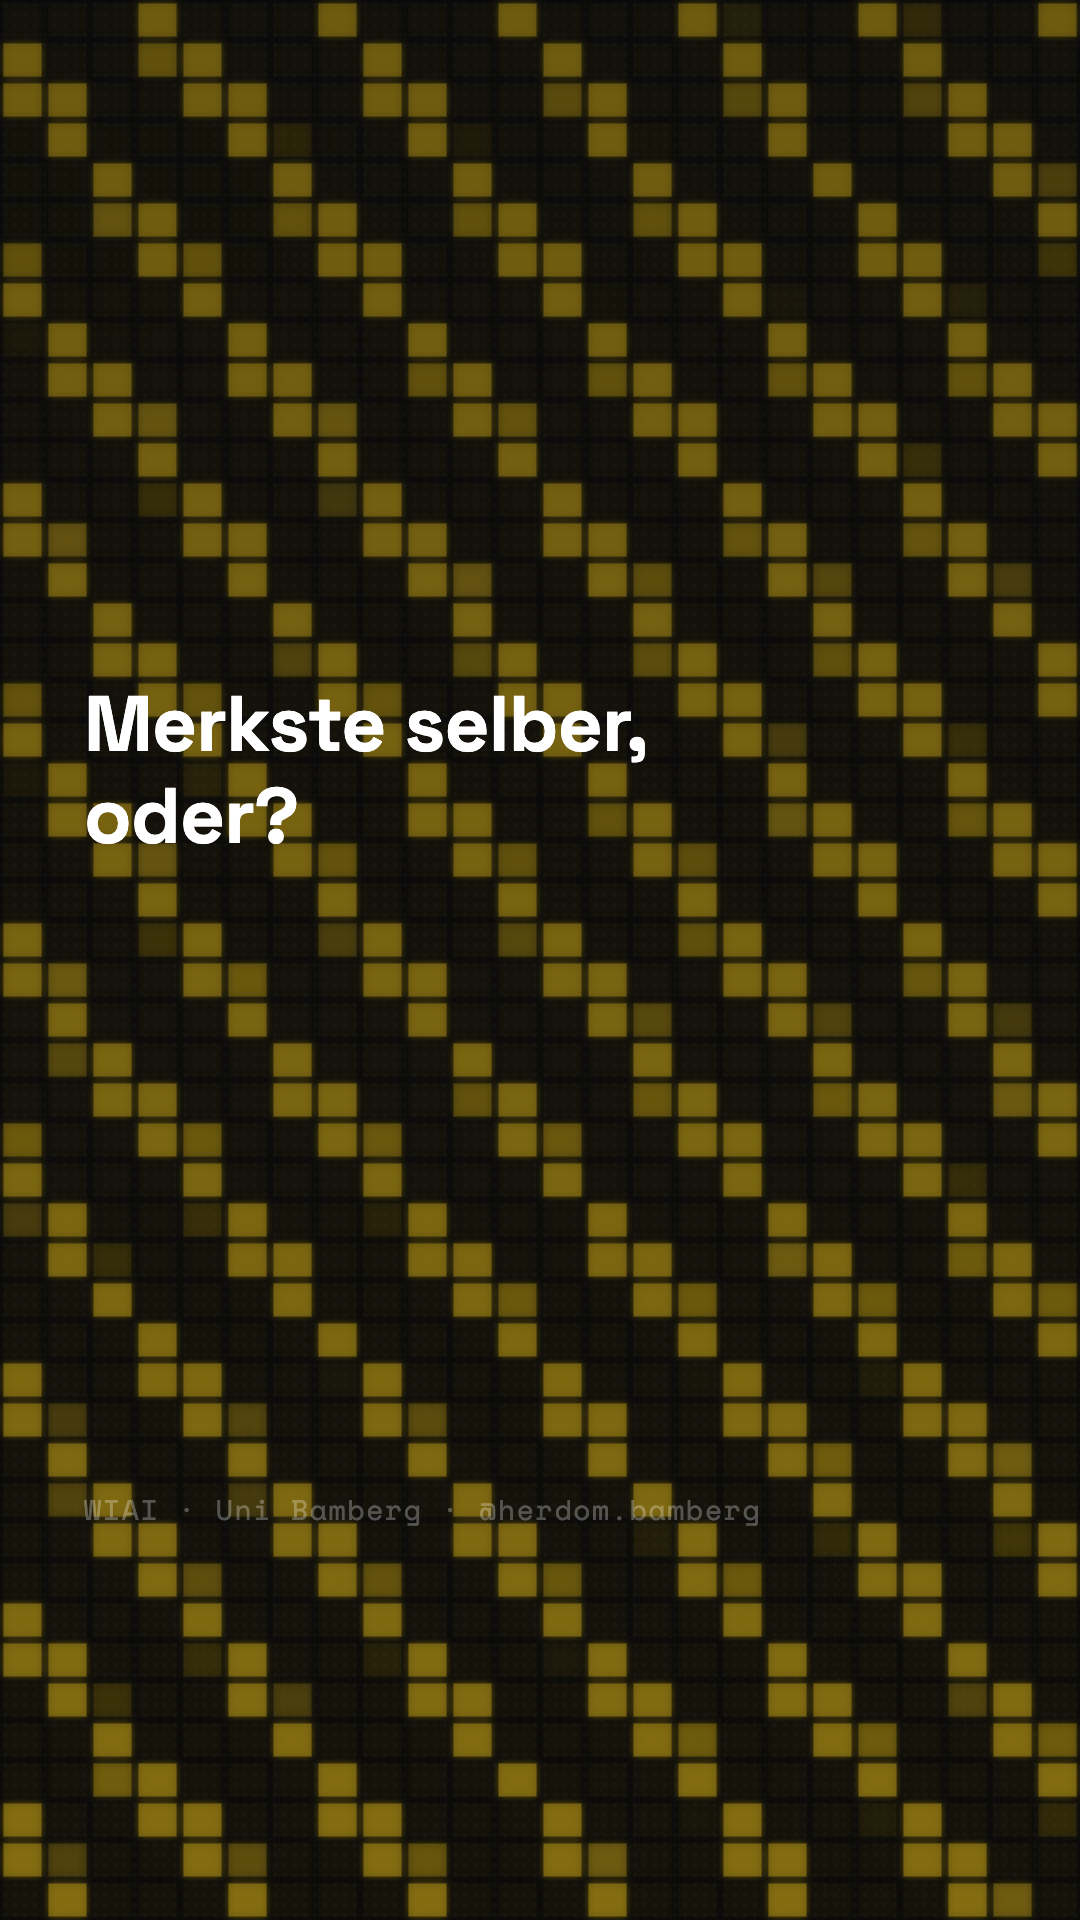
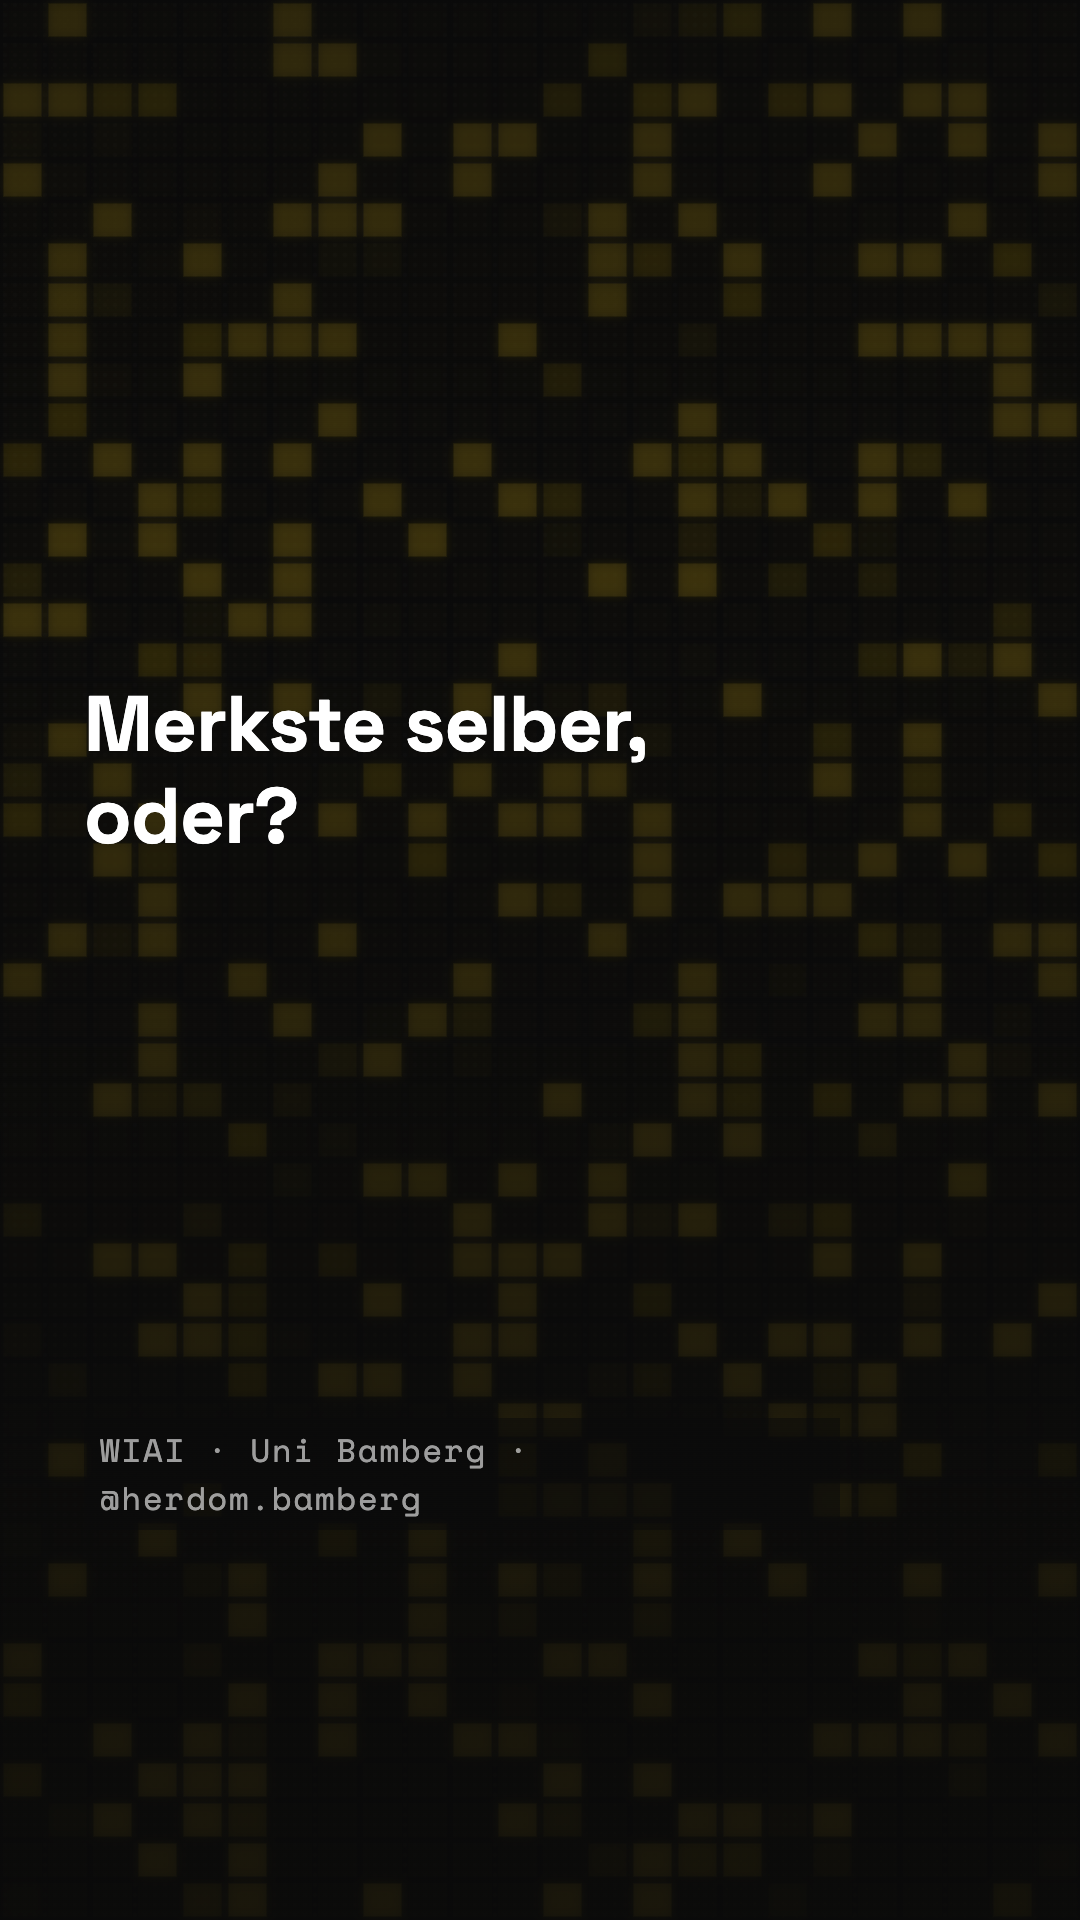
Fix LED wall contrast, pattern, layout issues
LED wall:
- Replace sin(row*a + col*b) hash with fractional-sin shader trick
  (sin(r*127.1+c*311.7)*43758.5) — no more visible diagonal wave pattern
- Reduce LED brightness: on 0.72→0.32, blink max 0.55→0.24, off 0.04→0.015
- Heavier dark overlay, gradient-weighted toward text zone (bottom)

Contrarian Act1:
- Remove decorative border-left bar (too filigran)
- Bigger reaction text: 168→210px
- Quote text plain and bold (no bar), fades in after reaction
- Layout bottom-aligned for better TikTok framing

PunchlineSlide absender:
- Increase opacity 0.28→0.60, font 28→32px
- Add semi-transparent background pill so text is legible over LED wall

diff --git a/pr-wiai/wiai-social/src/components/LedWall.tsx b/pr-wiai/wiai-social/src/components/LedWall.tsx
@@ -19,20 +19,21 @@ export const LedWall: React.FC<Props> = ({ accentColor }) => {
 
   for (let row = 0; row < ROWS; row++) {
     for (let col = 0; col < COLS; col++) {
-      // Deterministic hash per LED — no Math.random()
-      const hash = (Math.sin(row * 13.7 + col * 17.3) + 1) / 2; // 0–1
+      // Fractional part of large-multiplier sin — looks random, no visible wave pattern
+      const n = Math.sin(row * 127.1 + col * 311.7) * 43758.5453;
+      const hash = n - Math.floor(n); // 0–1, noise-like distribution
 
       let opacity: number;
       if (hash < 0.65) {
-        // ~65% off — dim glow only
-        opacity = 0.04;
+        // ~65% off — barely visible glow
+        opacity = 0.015;
       } else if (hash < 0.80) {
-        // ~15% blinking — phase offset per LED, slow oscillation
-        const blinkPhase = Math.sin(row * 7.11 + col * 3.17) * Math.PI;
-        opacity = ((Math.sin(frame * 0.07 + blinkPhase) + 1) / 2) * 0.51 + 0.04;
+        // ~15% blinking — per-LED phase, slow oscillation
+        const blinkPhase = (Math.sin(row * 7.11 + col * 3.17) * 43758.5) % (Math.PI * 2);
+        opacity = ((Math.sin(frame * 0.06 + blinkPhase) + 1) / 2) * 0.22 + 0.02;
       } else {
-        // ~20% on — solid
-        opacity = 0.72;
+        // ~20% on — solid but restrained
+        opacity = 0.32;
       }
 
       const x = col * CELL_W + (CELL_W - LED_W) / 2;
@@ -61,7 +62,7 @@ export const LedWall: React.FC<Props> = ({ accentColor }) => {
       >
         <defs>
           <filter id="led-glow" x="-20%" y="-20%" width="140%" height="140%">
-            <feGaussianBlur stdDeviation="4" result="blur" />
+            <feGaussianBlur stdDeviation="5" result="blur" />
             <feMerge>
               <feMergeNode in="blur" />
               <feMergeNode in="SourceGraphic" />
@@ -71,12 +72,13 @@ export const LedWall: React.FC<Props> = ({ accentColor }) => {
         <g filter="url(#led-glow)">{leds}</g>
       </svg>
 
-      {/* Dark overlay so foreground text stays readable */}
+      {/* Heavy dark overlay — especially dense in text zone (middle-bottom) */}
       <div
         style={{
           position: "absolute",
           inset: 0,
-          background: "linear-gradient(to bottom, rgba(10,10,10,0.55) 0%, rgba(10,10,10,0.45) 100%)",
+          background:
+            "linear-gradient(to bottom, rgba(10,10,10,0.72) 0%, rgba(10,10,10,0.62) 30%, rgba(10,10,10,0.78) 60%, rgba(10,10,10,0.88) 85%)",
           pointerEvents: "none",
         }}
       />

diff --git a/pr-wiai/wiai-social/src/compositions/Contrarian.tsx b/pr-wiai/wiai-social/src/compositions/Contrarian.tsx
@@ -10,13 +10,13 @@ import { TypewriterText } from "../components/TypewriterText";
 import { LedWall } from "../components/LedWall";
 import { PunchlineSlide } from "../components/PunchlineSlide";
 
-// Slide1: shows a quoted opinion/claim — LED wall as backdrop
+// Slide1: big reaction + setup quote below, LED wall backdrop
 const Act1: React.FC<{ post: Post }> = ({ post }) => {
   const frame = useCurrentFrame();
   const accent = post.accentColor ?? WIAI_YELLOW;
 
-  const quoteOpacity = interpolate(frame, [5, 15], [0, 1], { extrapolateRight: "clamp" });
-  const bigOpacity = interpolate(frame, [35, 45], [0, 1], { extrapolateRight: "clamp" });
+  const bigOpacity = interpolate(frame, [0, 10], [0, 1], { extrapolateRight: "clamp" });
+  const quoteOpacity = interpolate(frame, [18, 30], [0, 1], { extrapolateRight: "clamp" });
 
   return (
     <SlideFrame accentColor={accent}>
@@ -26,37 +26,35 @@ const Act1: React.FC<{ post: Post }> = ({ post }) => {
           flex: 1,
           display: "flex",
           flexDirection: "column",
-          justifyContent: "center",
-          padding: "0 240px 400px 60px",
-          gap: 72,
+          justifyContent: "flex-end",
+          padding: "0 240px 420px 60px",
+          gap: 40,
           position: "relative",
           zIndex: 5,
         }}
       >
-        {/* The common opinion being challenged */}
+        {/* Setup quote — plain, no decorative bar */}
         {post.slide1.smallText && (
           <div
             style={{
               opacity: quoteOpacity,
-              color: "rgba(255,255,255,0.45)",
-              fontSize: 54,
+              color: "rgba(255,255,255,0.55)",
+              fontSize: 60,
               fontWeight: 700,
               fontFamily: spaceGroteskFamily,
-              lineHeight: 1.25,
+              lineHeight: 1.2,
               whiteSpace: "pre-line",
-              borderLeft: `6px solid ${accent}`,
-              paddingLeft: 36,
             }}
           >
-            {`"${post.slide1.smallText}"`}
+            {`„${post.slide1.smallText}"`}
           </div>
         )}
 
-        {/* Contrarian reaction with glitch */}
+        {/* Contrarian reaction — big */}
         <div style={{ opacity: bigOpacity }}>
           <GlitchText
             text={post.slide1.bigText}
-            fontSize={168}
+            fontSize={210}
             glitchStartFrame={40}
             glitchEndFrame={52}
           />

diff --git a/pr-wiai/wiai-social/src/components/PunchlineSlide.tsx b/pr-wiai/wiai-social/src/components/PunchlineSlide.tsx
@@ -62,22 +62,31 @@ export const PunchlineSlide: React.FC<Props> = ({ accentColor, text, button }) =
         )}
       </div>
 
-      {/* Absender — subtle, bottom-left, inside safe zone */}
+      {/* Absender — bottom-left, readable but not dominant */}
       <div
         style={{
           position: "absolute",
           bottom: 390,
           left: 84,
+          right: 240,
           zIndex: 6,
-          color: "rgba(255,255,255,0.28)",
-          fontSize: 28,
-          fontFamily: spaceMonoFamily,
-          fontWeight: 400,
-          letterSpacing: "0.06em",
           pointerEvents: "none",
         }}
       >
-        WIAI · Uni Bamberg · @herdom.bamberg
+        <div
+          style={{
+            display: "inline-block",
+            background: "rgba(10,10,10,0.55)",
+            padding: "8px 16px",
+            color: "rgba(255,255,255,0.60)",
+            fontSize: 32,
+            fontFamily: spaceMonoFamily,
+            fontWeight: 400,
+            letterSpacing: "0.06em",
+          }}
+        >
+          WIAI · Uni Bamberg · @herdom.bamberg
+        </div>
       </div>
     </div>
   );
